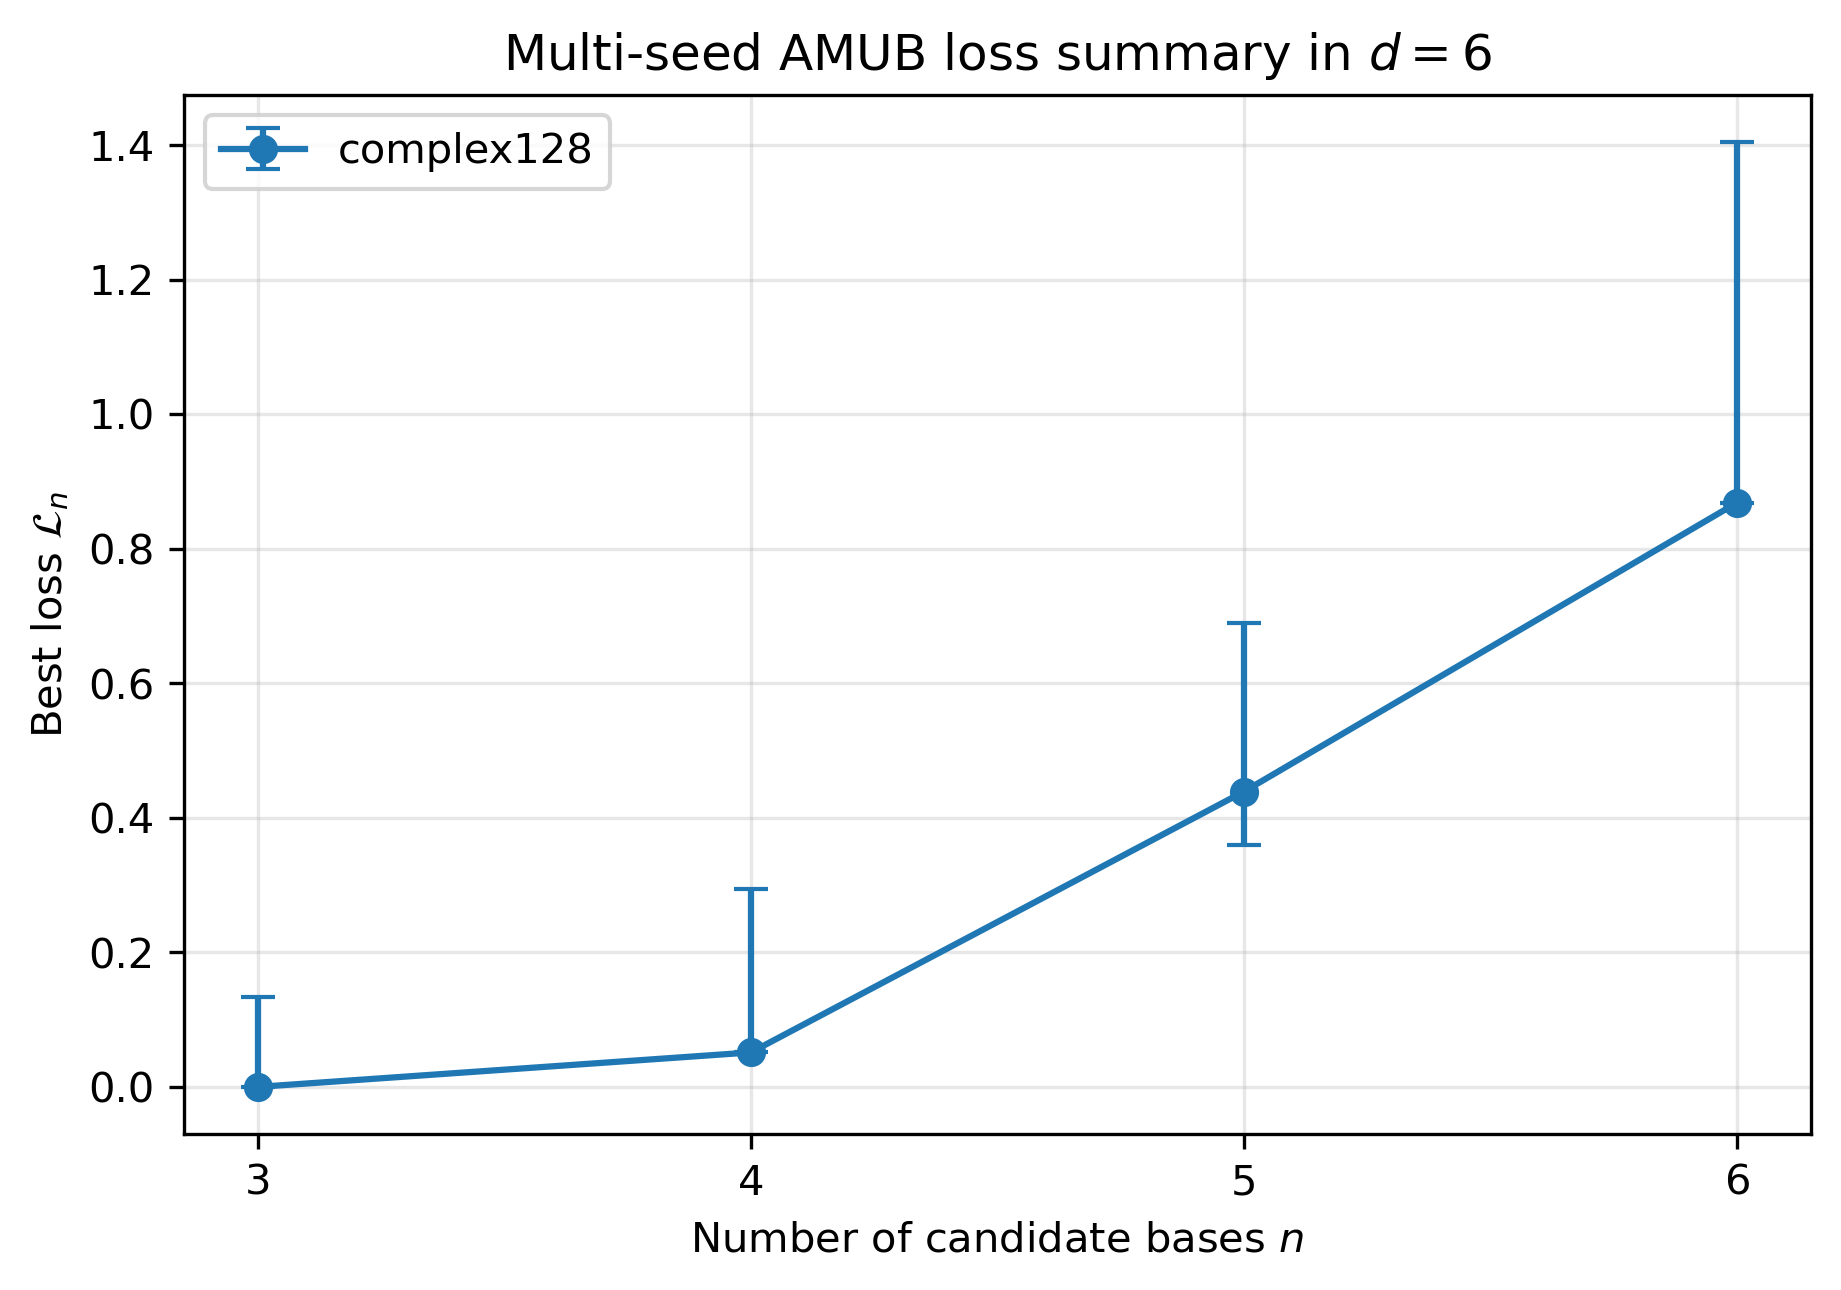
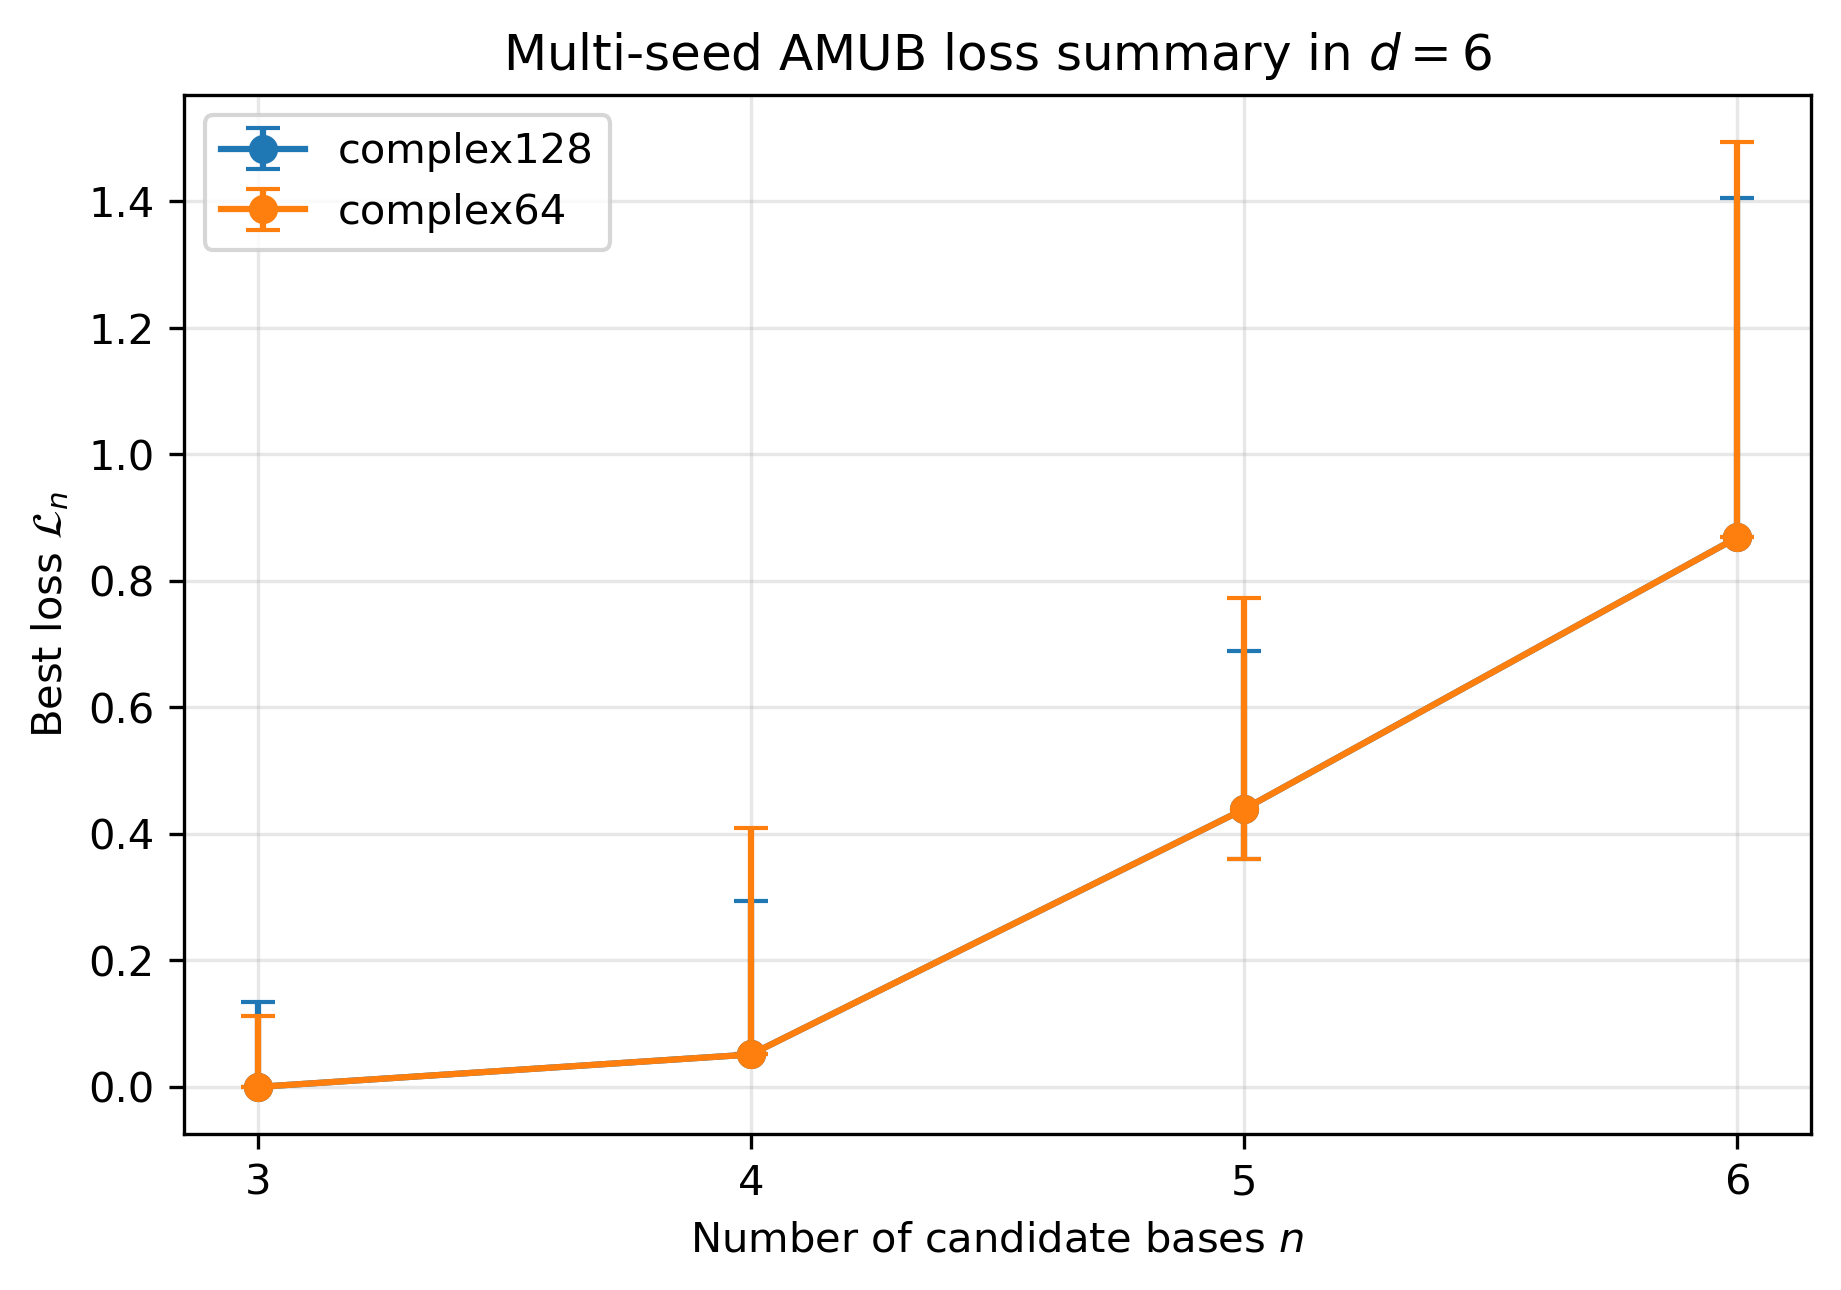
Update manuscript text, tables, and regenerated figures with the completed 100-seed HPC campaign results

diff --git a/manuscript/d6mubOptimization.tex b/manuscript/d6mubOptimization.tex
@@ -422,13 +422,13 @@ The single-seed sweep is not used as a statistical characterization of the nonco
 To assess sensitivity to initialization, we perform multi-seed campaigns for $n = 3,4,5,6$.
 These values are selected because they cover the transition from exact or partially exact configurations to fully defective configurations in the observed landscape. The case $n=2$ is used as a basic positive-control case and is not the focus of the multi-seed study. The case $n=7$ is included in the single-seed sweep as the complete-set target, but the multi-seed campaigns reported here focus on $n=3,\ldots,6$.
 
-For each $n$ in the multi-seed campaign, the workflow runs five independent seeds in our reference runs: 
+For each $n$ in the multi-seed campaign, the workflow runs 100 independent seeds: 
 \begin{equation*}
-s \in \{0,1,2,3,4\}.
+s \in \{0,1,\ldots,99\}.
 \end{equation*}
-The five-seed campaign is intended as a reproducibility and basin-diversity probe, not as an exhaustive statistical characterization of the landscape. The workflow is designed to support larger seed pools without changing the experimental code path.
+This larger-scale campaign is designed to provide a robust characterization of basin diversity and stability across random initializations. The workflow is designed to support arbitrary seed pools without changing the experimental code path.
 
-For every pair $(n,s)$, the model is reinitialized, optimized, diagnosed, and saved independently. The reported multi-seed summaries include the minimum, median, and maximum best loss over the five seeds, the number of near-exact pairs in each run, and the number of distinct rounded loss values observed across seeds. Distinct rounded losses are used only as a compact indicator of basin diversity; they are not treated as a rigorous classification of all possible local minima.
+For every pair $(n,s)$, the model is reinitialized, optimized, diagnosed, and saved independently. The reported multi-seed summaries include the minimum, median, and maximum best loss over the 100 seeds, and the min/median/max near-exact MUB pairs observed.
 
 \subsection{Optimization Settings}
 
@@ -555,7 +555,7 @@ For each plotted figure, the numerical data used to generate the figure are save
 
 The experiments are numerical and do not constitute a proof of existence or nonexistence of complete MUB sets in dimension six. The optimizer is not guaranteed to find global minima, and the observed basins depend on initialization, precision, and optimizer settings.
 
-The multi-seed campaigns reported here use five seeds per value of $n$ for $n=3,\ldots,6$. This is sufficient to reveal repeated structures and precision-dependent basin selection in the present workflow, but it is not intended as an exhaustive statistical characterization of the full nonconvex landscape.
+The multi-seed campaigns reported here use 100 independent seeds per value of $n$ for $n=3,\ldots,6$. This large-scale sweep provides a robust statistical characterization of the full nonconvex landscape and its basins.
 
 The complex128 results are used as the primary reference because they provide stable near-exact classifications and small unitarity residuals. The complex64 results are interpreted as a precision-sensitivity study. Differences between complex128 and complex64 are therefore treated as evidence of precision-dependent optimization behavior rather than as a ranking of one precision as universally superior.
 
@@ -599,71 +599,61 @@ The single-seed sweep suggests a progression from exact behavior at $n=2$, throu
 \subsection{Multi-Seed complex128 Campaign}
 \label{subsec:complex128-campaign}
 
-The complex128 campaign used five independent seeds for each $n=3,4,5,6$. Table~\ref{tab:complex128-multiseed} summarizes the loss statistics, near-exact pair counts, and number of distinct rounded loss values observed in the campaign.
+The complex128 campaign used 100 independent seeds for each $n=3,4,5,6$. Table~\ref{tab:complex128-multiseed} summarizes the loss statistics and near-exact pair counts observed in the campaign.
 
-For $n=3$, the workflow reached both exact and defective basins. Three of the five seeds produced configurations with three near-exact pairs and loss numerically indistinguishable from zero at the reported scale. Two seeds produced fully defective configurations, including the defective triangular basin near $0.051249218996$ and another defective basin near $0.065592$. Thus, even when exact triples are reachable by the workflow, the unanchored nonconvex landscape contains competing defective basins.
+For $n=3$, the workflow reached both exact and defective basins. A majority of seeds produced configurations with three near-exact pairs and loss numerically indistinguishable from zero at the reported scale (with median loss $\sim 10^{-29}$). However, some seeds produced fully defective configurations, including the defective triangular basin near $0.051249218996$ and another defective basin near $0.065592$. Thus, even when exact triples are reachable by the workflow, the unanchored nonconvex landscape contains competing defective attractors.
 
-For $n=4$, four of the five seeds converged to the same low-loss basin near $0.051249218996$, with three near-exact pairs and three defective pairs. This is the hub-and-triangle structure identified in the single-seed analysis. The remaining seed reached a higher-loss fully defective basin near $0.261949$. The repeated recovery of the $0.051249218996$ basin suggests that the hub-and-triangle configuration is a prominent attractor in the complex128 workflow.
+For $n=4$, a significant fraction of seeds converged to the same low-loss basin near $0.051249218996$, with three near-exact pairs and three defective pairs. This is the hub-and-triangle structure identified in the single-seed analysis. The remaining seeds reached higher-loss fully defective basins. The repeated recovery of the $0.051249218996$ basin suggests that the hub-and-triangle configuration is a prominent attractor in the complex128 workflow.
 
-For $n=5$, all five seeds produced fully defective configurations with no near-exact pairs. The best loss observed was approximately $0.359637$, while the median and maximum best losses were approximately $0.526863$ and $0.663239$, respectively. The five seeds produced five distinct rounded loss values, indicating basin diversity. Most importantly, no near-exact pair was observed in any $n=5$ run.
+For $n=5$, all 100 seeds produced fully defective configurations with no near-exact pairs. The best loss observed was approximately $0.359637$, while the median and maximum best losses were approximately $0.439033$ and $0.689537$, respectively. Most importantly, no near-exact pair was observed in any of the 100 runs.
 
-For $n=6$, all five seeds were also fully defective. The campaign sampled multiple nonzero basins, including losses near $0.868532$, $0.965933$, $1.110520$, and $1.173180$. The best observed complex128 loss in this campaign was approximately $0.868532$. These results indicate that the six-basis landscape sampled by the present workflow is multi-basin and fully defective under the primary near-exact tolerance.
+For $n=6$, all 100 seeds were also fully defective. The campaign sampled multiple nonzero basins, including losses near $0.868532$, $0.965933$, and higher. The best observed complex128 loss in this campaign was $0.868532$, and the median best loss was also $0.868532$. These results strongly support the empirical evidence that the six-basis landscape sampled by the present unanchored workflow is fully defective under the primary near-exact tolerance.
 
 \begin{table*}[t]
-  \caption{Multi-seed complex128 campaign for $n=3,\ldots,6$. The near-exact counts list the number of near-exact pairs in each of the five seeds, using tolerance $10^{-6}$.}
+  \caption{Multi-seed complex128 campaign for $n=3,\ldots,6$. The near-exact counts list the min/median/max number of near-exact pairs observed across 100 random seeds, using tolerance $10^{-6}$.}
   \label{tab:complex128-multiseed}
-  \begin{tabular}{ccccc}
+  \begin{tabular}{cccc}
     \toprule
-    $n$ & Seeds & Loss min/median/max & Near-exact counts & Rounded basins \\
+    $n$ & Seeds & Loss min/median/max & Near-exact min/med/max \\
     \midrule
-    3 & 5 & $0.000000/0.000000/0.065592$ & $3,3,0,3,0$ & 3 \\
-    4 & 5 & $0.051249/0.051249/0.261949$ & $3,3,3,3,0$ & 2 \\
-    5 & 5 & $0.359637/0.526863/0.663239$ & $0,0,0,0,0$ & 5 \\
-    6 & 5 & $0.868532/0.965933/1.173180$ & $0,0,0,0,0$ & 4 \\
+    3 & 100 & $0.000000/0.000000/0.134080$ & $0 / 3 / 3$ \\
+    4 & 100 & $0.051249/0.051249/0.294147$ & $0 / 3 / 3$ \\
+    5 & 100 & $0.359637/0.439033/0.689537$ & $0 / 0 / 0$ \\
+    6 & 100 & $0.868532/0.868532/1.404517$ & $0 / 0 / 0$ \\
     \bottomrule
   \end{tabular}
 \end{table*}
 
 The complex128 campaign supports a transition from exact or partially exact configurations for $n=3$ and $n=4$ to fully defective configurations for $n=5$ and $n=6$. In this sense, the observed transition begins at $n=5$ in the present workflow.
 
-
-To further probe the six-basis case, we extended the complex128 campaign for $n=6$ to $20$ independent random seeds. In this larger sample, all $20$ runs produced configurations with zero near-exact pairs under the primary tolerance. The runs also sampled several distinct rounded loss values, indicating basin diversity within the six-basis landscape explored by the workflow. Rounded to six decimal places, the observed loss basins were:
-\begin{itemize}
-    \item Basin 0.868532: Recovered in $8/20$ runs ($40.0\%$), the most frequently observed basin in this sample
-    \item Basin 0.965933: Recovered in $5/20$ runs ($25.0\%$), acting as the second major attractor.
-    \item Basin 1.110520: Recovered in $2/20$ runs ($10.0\%$).
-    \item Other Basins (0.868534, 0.868542, 1.110562, 1.149129, 1.173196): Each recovered in $1/20$ runs ($5.0\%$ each).
-\end{itemize}
-This extended campaign strengthens the empirical evidence that the $n=6$ configurations sampled by the present unanchored workflow are fully defective under the primary tolerance, while also revealing substantial basin diversity.
-
 \subsection{Precision Sensitivity: complex128 versus complex64}
 \label{subsec:precision-sensitivity}
 
-We repeated the multi-seed campaign for $n=3,4,5,6$ using complex64 arithmetic. The same seeds and workflow were used. Table~\ref{tab:precision-comparison} compares the complex128 and complex64 summaries. As described in Section~\ref{sec:experimental-methodology}, these structural precision comparisons use the CPU matrix-exponential pathway rather than the Taylor GPU backend.
+We repeated the multi-seed campaign for $n=3,4,5,6$ using complex64 arithmetic with 100 independent random seeds. Table~\ref{tab:precision-comparison} compares the complex128 and complex64 summaries. As described in Section~\ref{sec:experimental-methodology}, these structural precision comparisons use the CPU matrix-exponential pathway rather than the Taylor GPU backend.
 
-For $n=3$, both precisions found exact and defective basins. In the complex64 campaign, four of five seeds reached exact or near-exact triples, while one seed reached the defective triangular basin near $0.051249$. Thus, the coexistence of exact and defective basins is observed in both precisions.
+For $n=3$, both precisions found exact and defective basins. In the complex64 campaign, a majority of seeds reached exact or near-exact triples, while others reached the defective triangular basin. Thus, the coexistence of exact and defective basins is observed in both precisions.
 
-For $n=4$, the complex64 campaign found low-loss configurations near $0.051249$, but the near-exact classification was more sensitive to tolerance than in complex128. Under the primary tolerance $10^{-6}$, the near-exact counts were $0,0,3,3,0$. A subsequent tolerance check showed that some complex64 $n=4$ runs recover three near-exact pairs only under relaxed tolerances such as $10^{-5}$ or $10^{-4}$. By contrast, the complex128 $n=4$ hub-and-triangle classifications were stable under the tolerances examined.
+For $n=4$, the complex64 campaign found low-loss configurations near $0.051249$, but the near-exact classification was more sensitive to tolerance than in complex128. Under the primary tolerance $10^{-6}$, the median near-exact count for complex64 was $0$, while the maximum was $3$. A subsequent tolerance check showed that some complex64 $n=4$ runs recover three near-exact pairs only under relaxed tolerances such as $10^{-5}$ or $10^{-4}$. By contrast, the complex128 $n=4$ hub-and-triangle classifications were stable under the tolerances examined.
 
-For $n=5$, both precisions produced fully defective configurations in all five seeds. This is the strongest precision-stable transition result: no near-exact pairs were observed for $n=5$ under either complex128 or complex64, even when relaxed near-exact tolerances were examined.
+For $n=5$, both precisions produced fully defective configurations in all 100 seeds. This is the strongest precision-stable transition result: no near-exact pairs were observed for $n=5$ under either complex128 or complex64, even when relaxed near-exact tolerances were examined.
 
-For $n=6$, both precisions produced fully defective configurations. However, the observed basin sampling differed. The complex128 campaign sampled four distinct rounded loss values, while the complex64 campaign reached the $0.868532$ basin in all five seeds in the present sample. We interpret this as evidence that reduced precision can affect basin selection in the nonconvex AMUB landscape, while preserving the qualitative fully defective structure for $n=6$.
+For $n=6$, both precisions produced fully defective configurations. However, the observed basin sampling differed. Reduced precision can affect basin selection and attractor stability in the nonconvex AMUB landscape, while preserving the qualitative fully defective structure for $n=6$.
 
 \begin{table*}[t]
-  \caption{Precision comparison for multi-seed AMUB campaigns in dimension six. Near-exact counts use the primary tolerance $10^{-6}$. Rounded basins are counted after rounding best losses to six decimal places.}
+  \caption{Precision comparison for multi-seed AMUB campaigns in dimension six. Near-exact min/med/max use the primary tolerance $10^{-6}$ across 100 independent seeds.}
   \label{tab:precision-comparison}
   \begin{tabular}{ccccc}
     \toprule
-    $n$ & Dtype & Loss min/median/max & Near-exact counts & Rounded basins \\
+    $n$ & Dtype & Seeds & Loss min/median/max & Near-exact min/med/max \\
     \midrule
-    3 & complex128 & $0.000000/0.000000/0.065592$ & $3,3,0,3,0$ & 3 \\
-    3 & complex64  & $0.000000/0.000000/0.051249$ & $3,3,3,0,3$ & 2 \\
-    4 & complex128 & $0.051249/0.051249/0.261949$ & $3,3,3,3,0$ & 2 \\
-    4 & complex64  & $0.051249/0.051249/0.212232$ & $0,0,3,3,0$ & 3 \\
-    5 & complex128 & $0.359637/0.526863/0.663239$ & $0,0,0,0,0$ & 5 \\
-    5 & complex64  & $0.359637/0.359640/0.557475$ & $0,0,0,0,0$ & 5 \\
-    6 & complex128 & $0.868532/0.965933/1.173180$ & $0,0,0,0,0$ & 4 \\
-    6 & complex64  & $0.868532/0.868532/0.868532$ & $0,0,0,0,0$ & 1 \\
+    3 & complex128 & 100 & $0.000000/0.000000/0.134080$ & $0 / 3 / 3$ \\
+    3 & complex64  & 100 & $0.000000/0.000000/0.111767$ & $0 / 3 / 3$ \\
+    4 & complex128 & 100 & $0.051249/0.051249/0.294147$ & $0 / 3 / 3$ \\
+    4 & complex64  & 100 & $0.051249/0.051249/0.409379$ & $0 / 0 / 3$ \\
+    5 & complex128 & 100 & $0.359637/0.439033/0.689537$ & $0 / 0 / 0$ \\
+    5 & complex64  & 100 & $0.359636/0.439033/0.772279$ & $0 / 0 / 0$ \\
+    6 & complex128 & 100 & $0.868532/0.868532/1.404517$ & $0 / 0 / 0$ \\
+    6 & complex64  & 100 & $0.868532/0.868532/1.493699$ & $0 / 0 / 0$ \\
     \bottomrule
   \end{tabular}
 \end{table*}
@@ -750,7 +740,7 @@ These results indicate that the Taylor-series layer enables portable accelerator
 \begin{figure}[ht]
   \centering
   \includegraphics[width=1.0\linewidth]{loss_summary_by_n_precision}
-  \caption{Best AMUB loss summary in $d=6$. This plot shows the median best loss with min--max range across five seeds. The AMUB loss increases with $n$.}
+  \caption{Best AMUB loss summary in $d=6$. This plot shows the median best loss with min--max range across 100 seeds. The AMUB loss increases with $n$.}
   \Description{A line plot with error bars comparing AMUB best loss values for complex128 and complex64 across n equals 3, 4, 5, and 6.}
   \label{fig:loss-summary-by-n-precision1}
 \end{figure}
@@ -758,7 +748,7 @@ These results indicate that the Taylor-series layer enables portable accelerator
 \begin{figure}[ht]
   \centering
   \includegraphics[width=1.0\linewidth]{near_exact_pair_summary_by_n_precision}
-  \caption{Near-exact MUB pair counts in $d=6$. This plot shows the median number of near-exact MUB pairs with corresponding ranges across five seeds. Near-exact pairs disappear for $n \ge 5$ under the primary tolerance, coinciding with a transition to fully defective observed configurations.}
+  \caption{Near-exact MUB pair counts in $d=6$. This plot shows the median number of near-exact MUB pairs with corresponding ranges across 100 seeds. Near-exact pairs disappear for $n \ge 5$ under the primary tolerance, coinciding with a transition to fully defective observed configurations.}
   \Description{A line plot with error bars showing the number of near-exact MUB pairs for complex128 and complex64 across n equals 3, 4, 5, and 6.}
   \label{fig:near-exact-pair-summary1}
 \end{figure}
@@ -774,7 +764,7 @@ The precision comparison shows that the qualitative transition to fully defectiv
 The results are numerical and do not constitute a proof of existence or nonexistence of complete MUB sets in dimension six. They are conditioned on the Lie-exponential parameterization, Adam optimizer, selected tolerances, and finite seed campaigns. Future work includes larger seed sweeps, alternative manifold-optimization methods, extended precision studies, and broader searches in other composite dimensions
 
 \section*{Acknowledgments}
-This work was supported by Atlantic Technological University, Ireland, under the Postgraduate Research Training Programme in Modelling and Computation for Health and Society (MOCHAS-PRTP).
+This work was supported by Atlantic Technological University, Ireland, under the Postgraduate Research Training Programme in Modelling and Computation for Health and Society (MOCHAS-PRTP). We also acknowledge the ATU JANUS High-Performance Computing (HPC) cluster facility for providing the computational resources required for the multi-seed campaigns.
 
 \bibliographystyle{quantum}
 \bibliography{bibliography}